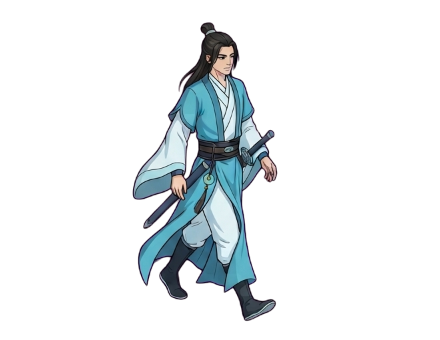
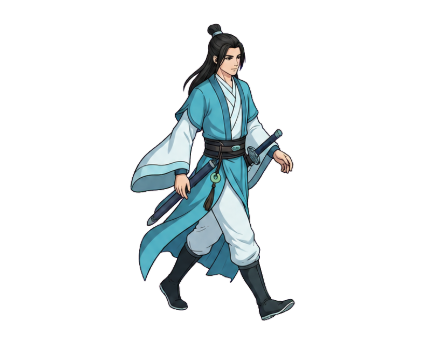
서진 걷기 새 그림 (ChatGPT): 1·3번이 서로 반대 다리, 다리 모은 2·4번 / ChatGPT 그림 도구, 제미나이 첨부 메뉴 이름 변경 대응

Changed region(s): [[0.2955, 0.0588, 0.6795, 0.9412]]

diff --git a/작업기록.md b/작업기록.md
@@ -124,7 +124,6 @@
 1. **영문판 (게임 안 글씨 한국어/영어)** — 스토어 소개 글·개인정보처리방침만 영어가 있고, 게임 화면(메뉴·무공 이름·설명·카드·시네마틱 자막·과제/업적·설정)은 한국어뿐. 언어 고르기(설정 메뉴), 글씨를 한 곳(언어표)에 모으기, 무공·보스 이름 영어 표기 정하기(예: Blood Cult Grandmaster), 영어 글꼴 확인
 2. 엔딩 영상 ed_06 (지금은 그림), 실사 트레일러 t01~t11 — 영상 원본은 구글 드라이브, Flow 크레딧 11/21 초기화
 3. 출시: 앱 아이콘 512x512, 개인정보처리방침 연락처 이메일
-5. 걷기 1·3번 프레임이 같은 다리 (다시 뽑아 볼 것)
 7. 폰에서 다시 확인
 - 끝남: 몬스터 새 그림 전부, 중간보스 15명 그림, 혈마교주·빙백신군 그림, 구역 바닥 9장·소품 16종
 
@@ -211,4 +210,6 @@
 - 쓰러진 적: 옛 그림 → 살아 있을 때와 같은 새 그림 (보스·중간보스·정예 포함, corpseArtOf)
 - 대시 잔상: 옛 주인공 그림 → 서진 그림 푸른 잔상
 - 안 쓰는 파일 30개(약 9.7MB) 지움: 3D 모형 .glb 5개, 옛 몬스터 jpg 6개, hero_attack_0~3, 옛 효과음 sfx_* 8개, 매화나무 소품, 옛 보스 그림 등 (git 기록에는 남아 있음)
-- 남음: 서진 걷기 1·3번 다리 (제미나이 필요)
+- 서진 걷기 새 그림: 제미나이는 2번 시도 모두 1·3번 같은 다리 → **ChatGPT**로 2x2 시트(1·2·4번) + 3번만 한 장 따로("그늘진 먼 쪽 다리가 앞, 밝은 가까운 다리가 뒤"로 색으로 설명하니 됨). 원본 assets_new/hero_walk_sheet_gpt1.png·hero_walk_frame3_gpt.png, 예전 프레임 assets_new/hero_old/
+- 그림 도구: tools/browser/gpt.mjs (ChatGPT, 무료 하루 약 3장, 로그인은 사용자가 직접). 제미나이 첨부 메뉴 이름이 '파일 업로드' → '파일' 로 바뀌어 gem.mjs 고침
+- 요령: 왼다리/오른다리 말로는 잘 안 됨 → '밝은 쪽 다리·그늘진 쪽 다리'처럼 눈에 보이는 색으로 설명, 한 장씩 따로 요청
